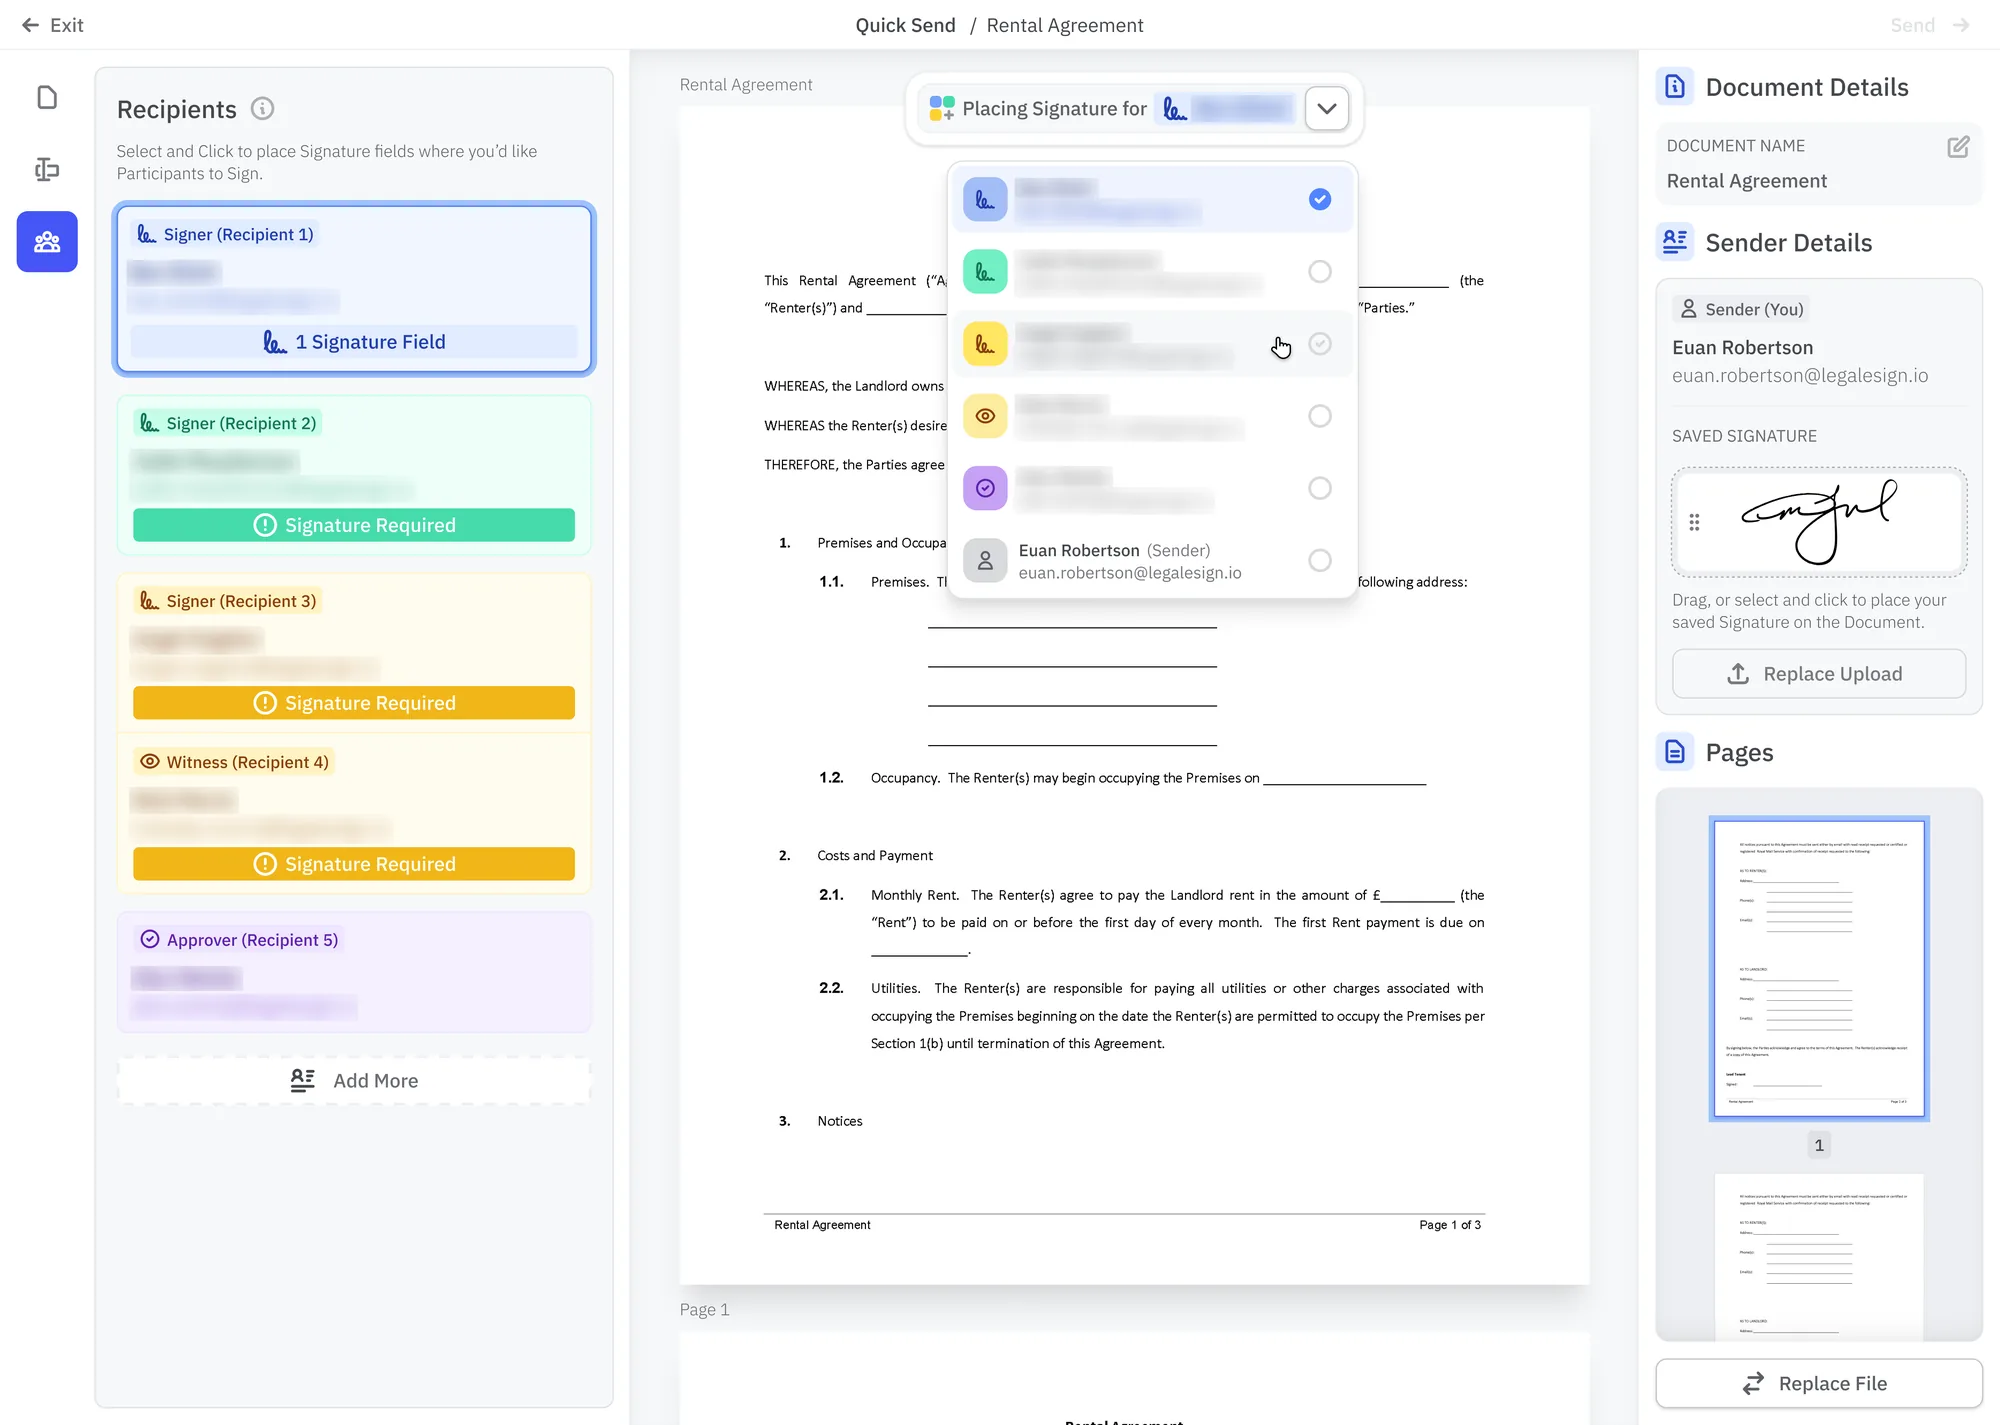
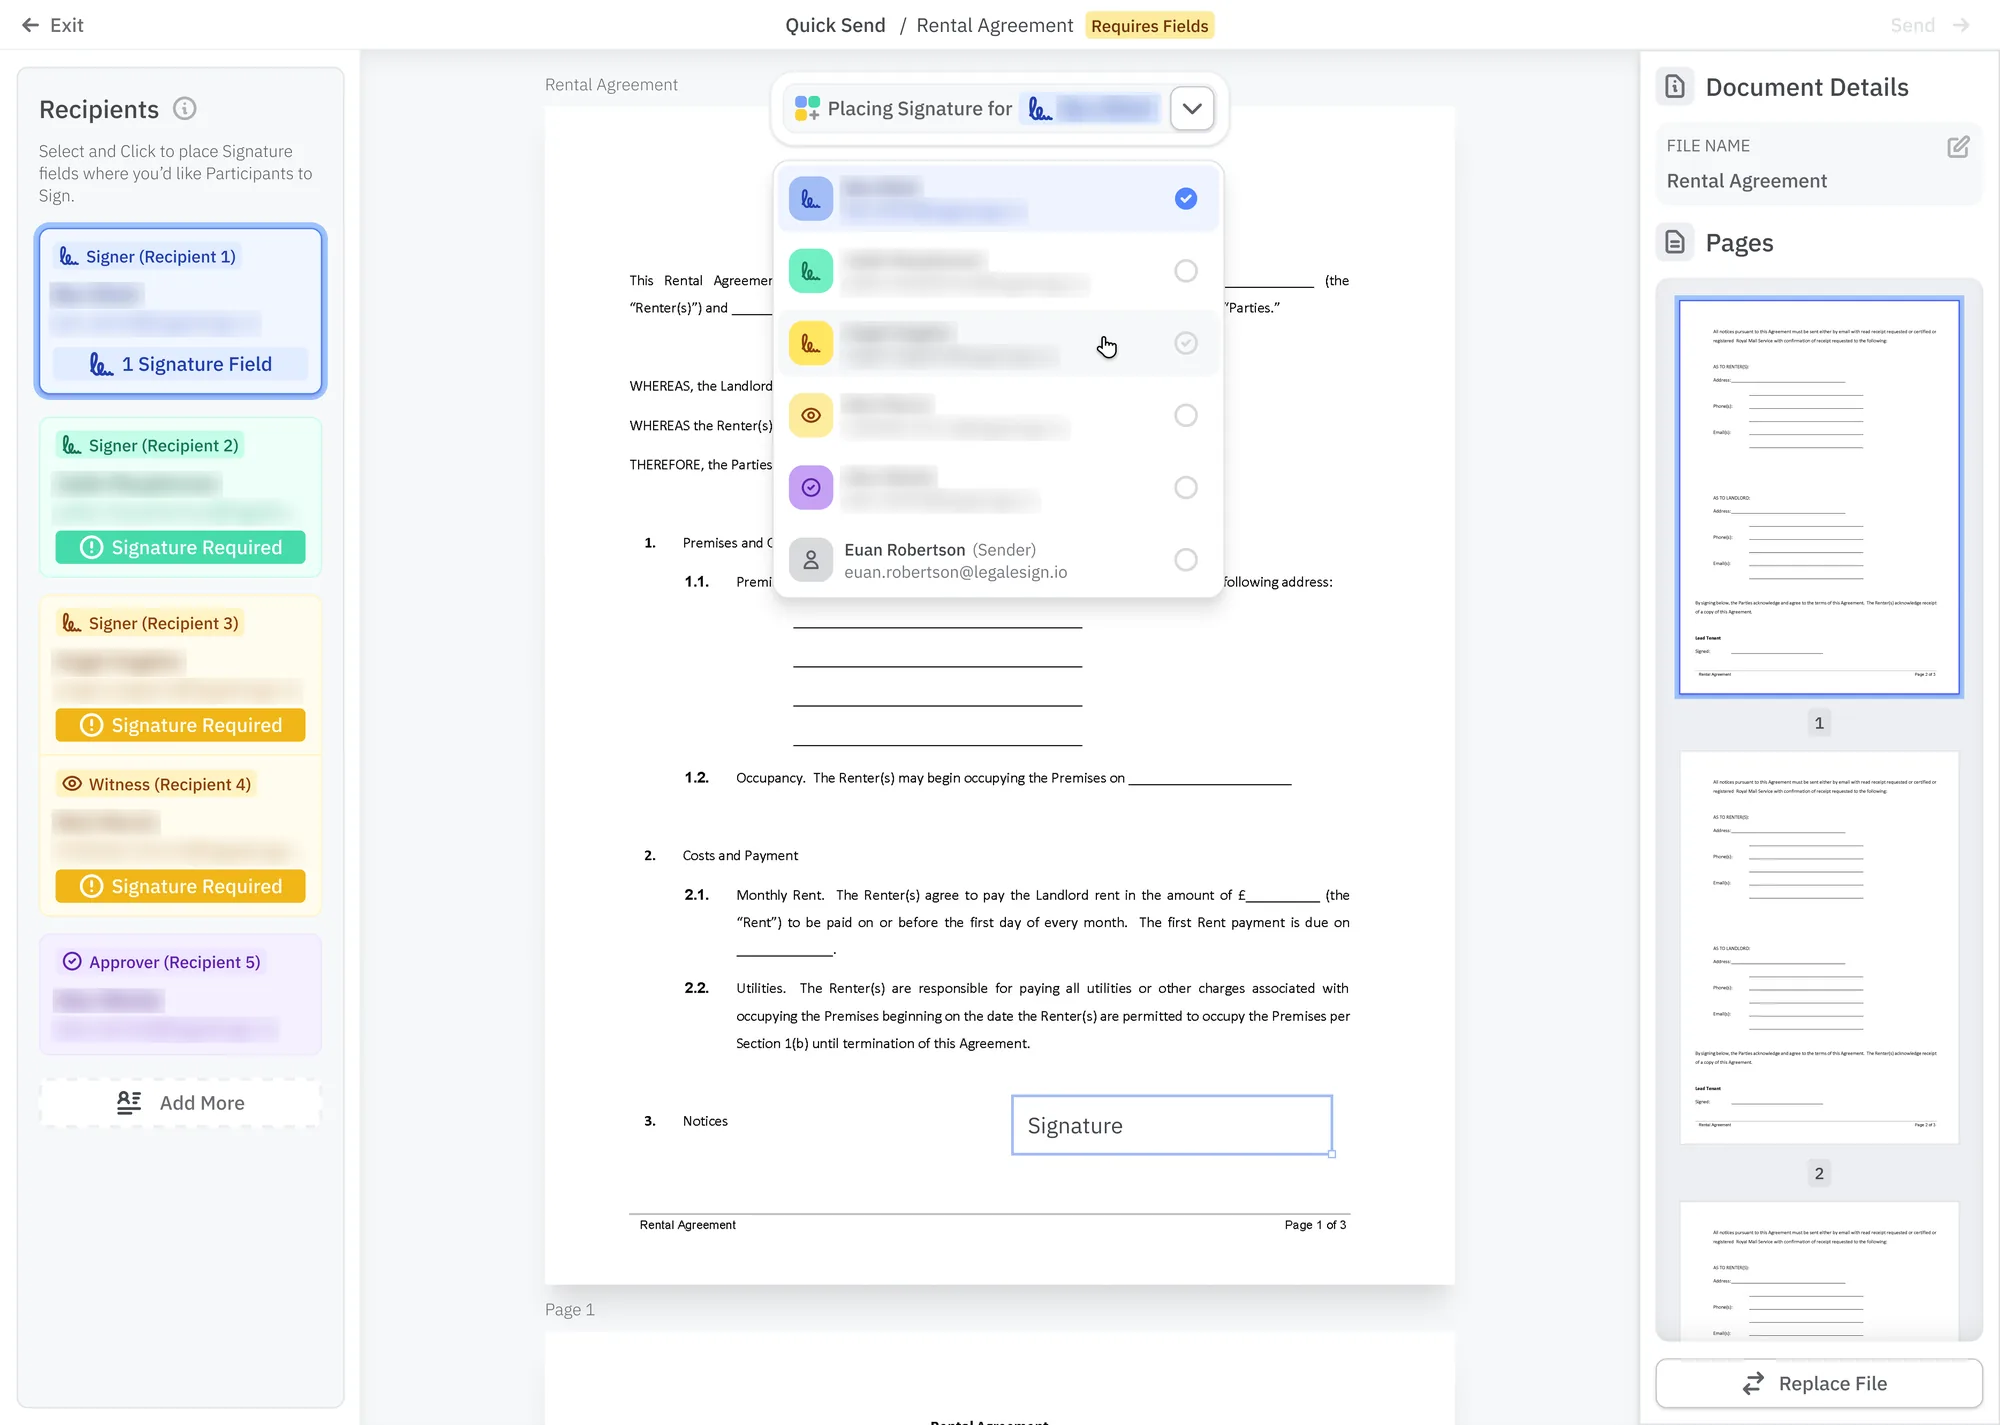
Combine Quick Send versions 16 and 17, leaving 26 screens
Claude-Session: https://claude.ai/code/session_014sezJqAyiVMuUZgAteEGKh

diff --git a/src/process.ts b/src/process.ts
@@ -32,18 +32,18 @@ export type Stage = {
 };
 
 // What each Quick Send version changed, keyed by version number (1 is the
-// oldest, 27 the final design). Versions left out show prompts in the pop-up.
+// oldest, 26 the final design). Versions left out show prompts in the pop-up.
 const quickSendDetails: Record<number, { stage?: string; change?: string; feedback?: string }> = {
   // 1: { stage: "First prototype", change: "…", feedback: "…" },
 };
 
 // Every Quick Send screen, oldest first, in public/work/quick-send/iterations/.
-const quickSendIterations: Extract<Block, { type: "iterations" }>["items"] = Array.from({ length: 27 }, (_, i) => ({
+const quickSendIterations: Extract<Block, { type: "iterations" }>["items"] = Array.from({ length: 26 }, (_, i) => ({
   image: {
     src: `/work/quick-send/iterations/${String(i + 1).padStart(2, "0")}.webp`,
     w: 2000,
     h: 1430,
-    alt: i === 26 ? "Quick Send, the final design" : `Quick Send, version ${i + 1} of 27`,
+    alt: i === 25 ? "Quick Send, the final design" : `Quick Send, version ${i + 1} of 26`,
   },
   ...quickSendDetails[i + 1],
 }));
@@ -168,7 +168,7 @@ export const stages: Stage[] = [
     blocks: [
       {
         type: "iterations",
-        eyebrow: "27 versions",
+        eyebrow: "26 versions",
         heading: "From first prototype to the final design.",
         body: "Drag the bar to step through every version of Quick Send, oldest first, and see what each round of feedback changed.",
         items: quickSendIterations,
